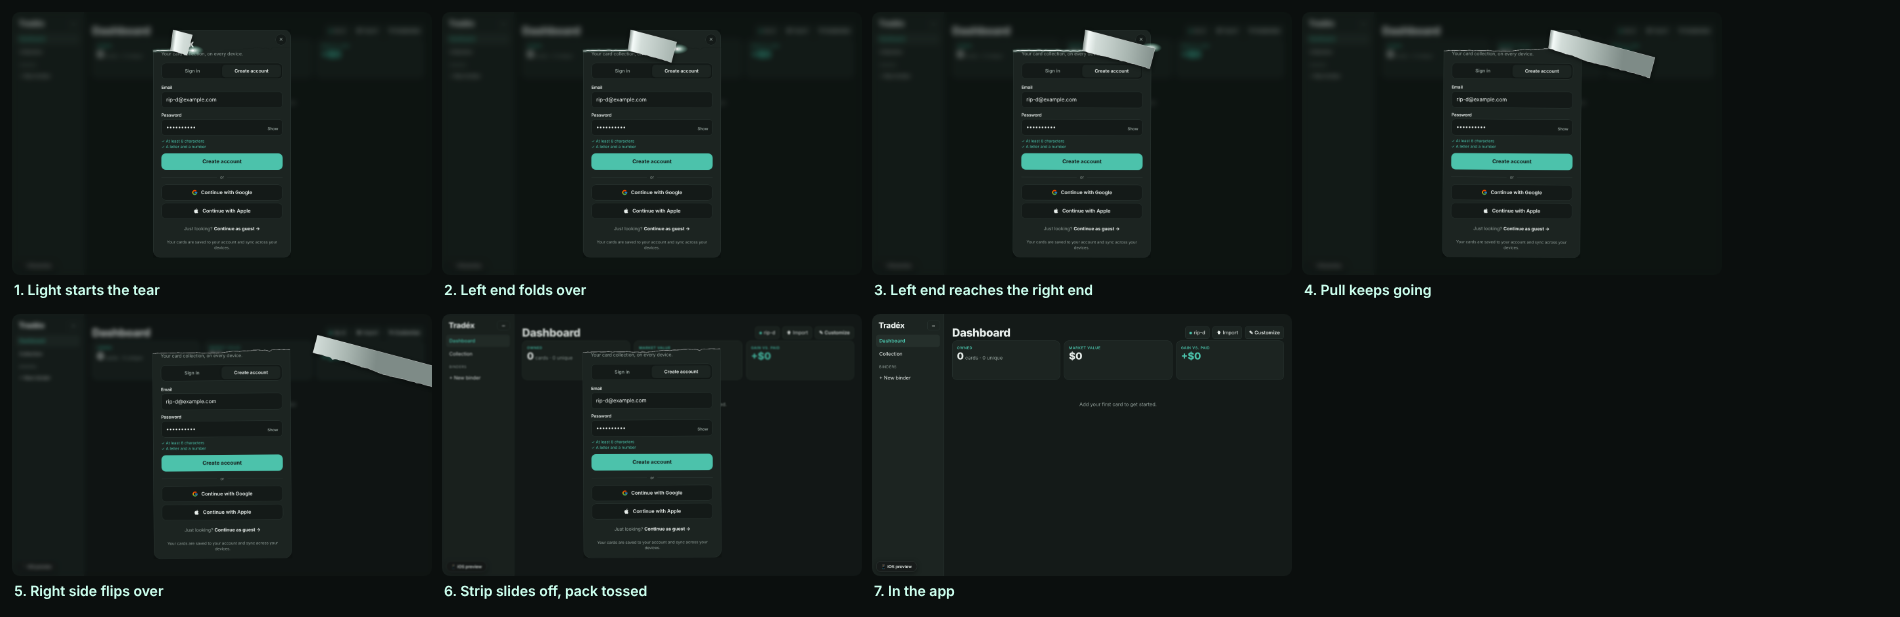
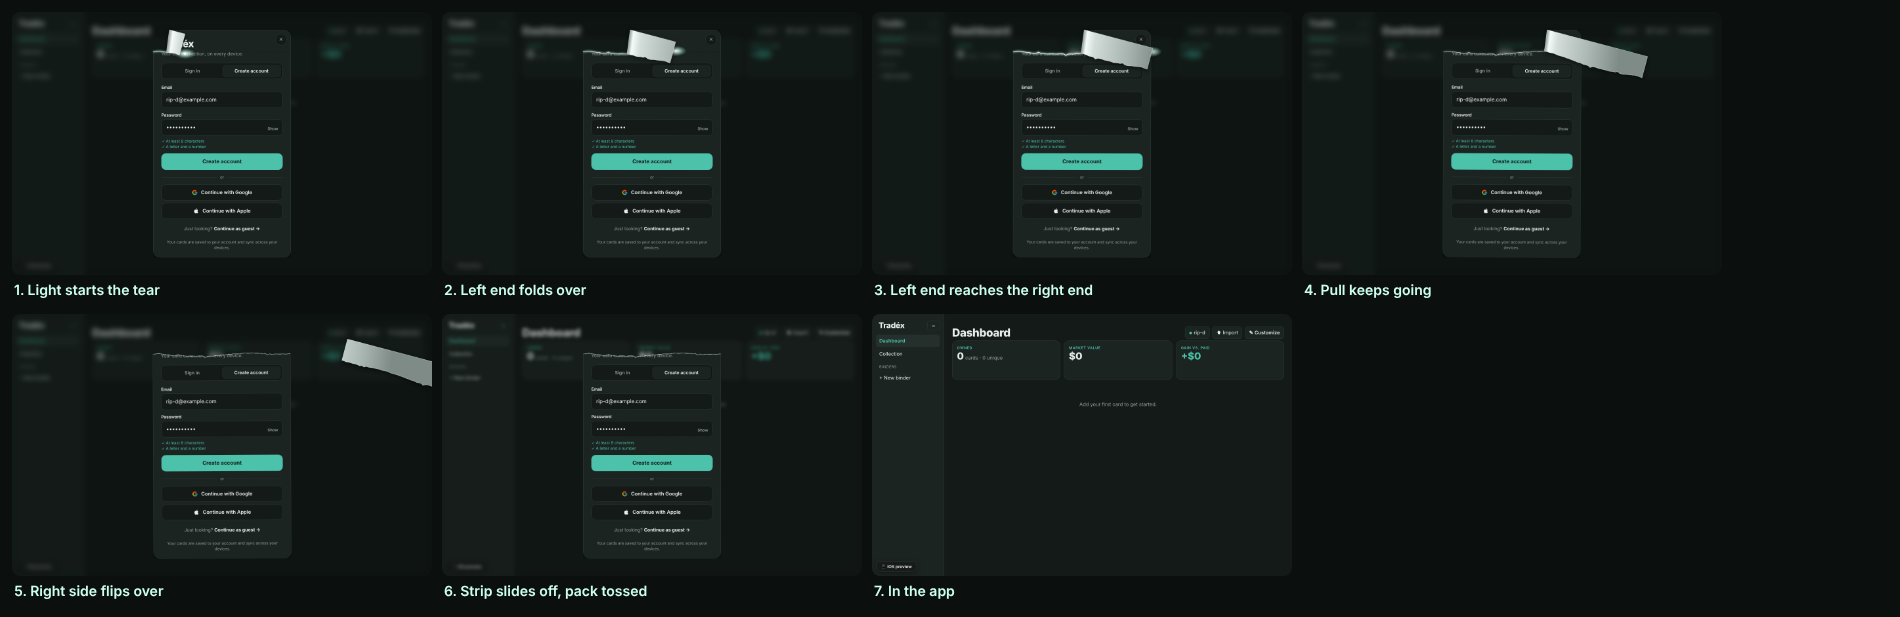
Set the tear to 0.78s
Claude-Session: https://claude.ai/code/session_01K6ofJxh6QarDQ2gKnJ83gJ

diff --git a/js/account.js b/js/account.js
@@ -249,7 +249,7 @@ function lift(rip){const g=$('#txa');if(!g||g.classList.contains('clear'))return
   v.style.cssText=`position:absolute;left:0;top:0;width:100%;height:${cut+12}px;pointer-events:none;overflow:visible`;
   v.innerHTML=`<polyline points="${pts.map(([x,y])=>x+','+y).join(' ')}" fill="none" stroke="rgba(255,255,255,.6)" stroke-width="1.6" vector-effect="non-scaling-stroke" stroke-linejoin="bevel"/>`;return v};
  const at=x=>{for(let i=1;i<pts.length;i++)if(pts[i][0]>=x){const[a,b]=[pts[i-1],pts[i]];return b[0]===a[0]?b[1]:a[1]+(b[1]-a[1])*(x-a[0])/(b[0]-a[0])}return pts[pts.length-1][1]};
- const wrap=document.createElement('div'),SW=870,W=r.width,PX=pts.map(([x,y])=>[x/100*W,y]);wrap.setAttribute('aria-hidden','true');
+ const wrap=document.createElement('div'),SW=780,W=r.width,PX=pts.map(([x,y])=>[x/100*W,y]);wrap.setAttribute('aria-hidden','true');
  Object.assign(wrap.style,{position:'fixed',left:r.left+'px',top:r.top+'px',width:W+'px',height:r.height+'px',pointerEvents:'none',zIndex:1,overflow:'visible',transformOrigin:`100% ${cut}px`});
  // The torn-off title strip stays one piece: the part not yet folded is the card itself, and the part folded over
  // is its mirror image across a slanted crease, drawn as the silver inside of the foil draping down over the right side.
